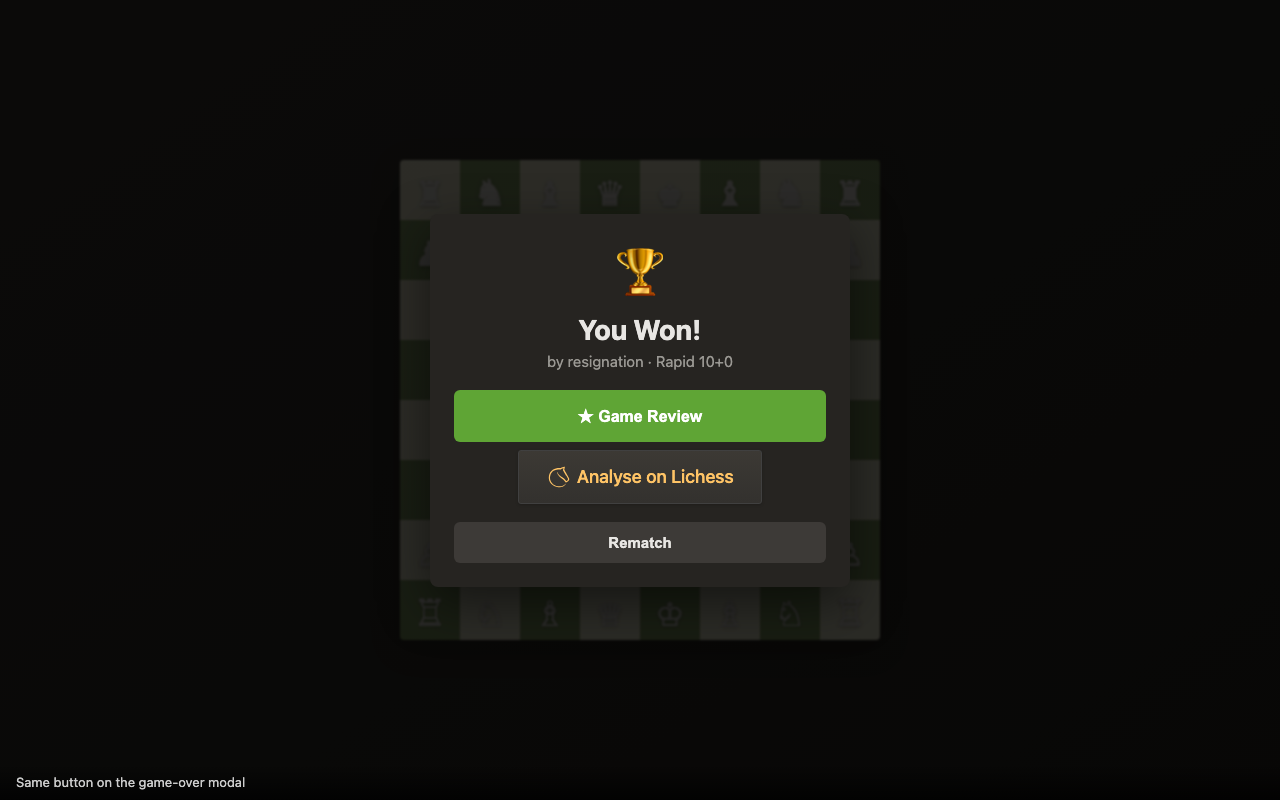
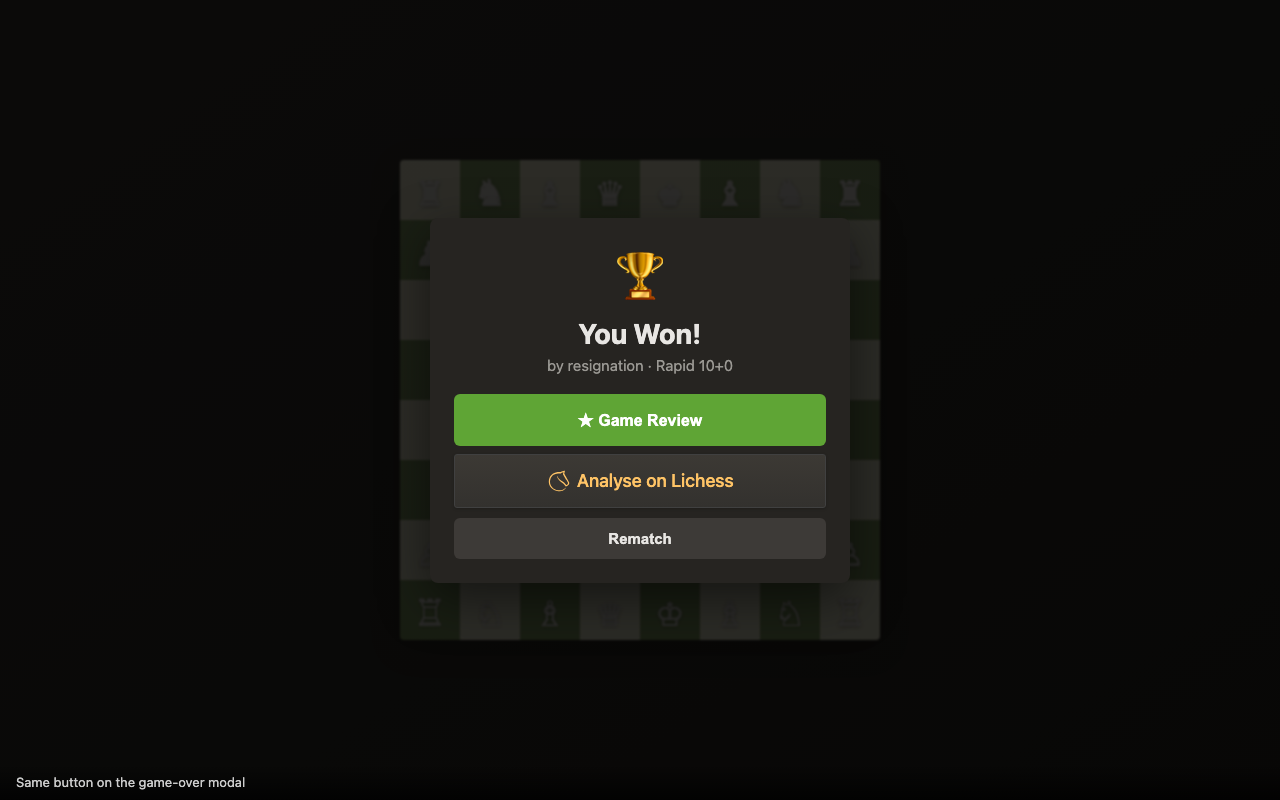
fix(chesscom-lichess-export): full-width modal Analyse button
Match game-over modal button width to Game Review; v1.0.1.

Changed region(s): [[0.3438, 0.4062, 0.6562, 0.625], [0.4688, 0.3125, 0.5312, 0.375], [0.4688, 0.6562, 0.5312, 0.6875]]

diff --git a/packages/chesscom-lichess-export/dist/chesscom-lichess-export.user.js b/packages/chesscom-lichess-export/dist/chesscom-lichess-export.user.js
@@ -1,7 +1,7 @@
 // ==UserScript==
 // @name         Chess.com → Lichess Export
 // @namespace    https://github.com/pedro-mass/userscripts/chesscom-lichess-export
-// @version      1.0.0
+// @version      1.0.1
 // @author       pedro-mass
 // @description  One-click PGN export from Chess.com to Lichess (game-over modal, sidebar, share dialog)
 // @license      GPL-3.0-only
@@ -361,10 +361,8 @@
     }
     [data-cy="game-over-modal-shell-buttons"] .cc2l-btn,
     .game-over-modal-shell-buttons .cc2l-btn {
-      width: auto;
       padding: 1.3rem 2rem;
-      max-width: 100%;
-      margin: 8px 1.6rem;
+      margin-top: 8px;
     }
     .cc2l-btn svg,
     .cc2l-share-btn svg {

diff --git a/packages/chesscom-lichess-export/store/screenshots.html b/packages/chesscom-lichess-export/store/screenshots.html
@@ -152,11 +152,10 @@
     .modal h2 { font-size: 28px; font-weight: 700; margin-bottom: 6px; }
     .modal p { color: #9a9893; margin-bottom: 20px; font-size: 15px; }
     .modal .cc2l-btn {
-      width: auto;
-      display: inline-flex;
-      padding: 14px 28px;
+      width: 100%;
+      padding: 14px 20px;
       font-size: 18px;
-      margin: 8px 0;
+      margin-top: 8px;
     }
     .modal .cc-btn-green { margin-top: 4px; }
 

diff --git a/packages/chesscom-lichess-export/dist/chesscom-lichess-export.meta.js b/packages/chesscom-lichess-export/dist/chesscom-lichess-export.meta.js
@@ -1,7 +1,7 @@
 // ==UserScript==
 // @name         Chess.com → Lichess Export
 // @namespace    https://github.com/pedro-mass/userscripts/chesscom-lichess-export
-// @version      1.0.0
+// @version      1.0.1
 // @author       pedro-mass
 // @description  One-click PGN export from Chess.com to Lichess (game-over modal, sidebar, share dialog)
 // @license      GPL-3.0-only

diff --git a/packages/chesscom-lichess-export/vite.config.ts b/packages/chesscom-lichess-export/vite.config.ts
@@ -10,7 +10,7 @@ export default defineConfig({
       entry: 'src/main.ts',
       userscript: {
         name: 'Chess.com → Lichess Export',
-        version: '1.0.0',
+        version: '1.0.1',
         author: 'pedro-mass',
         description:
           'One-click PGN export from Chess.com to Lichess (game-over modal, sidebar, share dialog)',

diff --git a/packages/chesscom-lichess-export/src/button.ts b/packages/chesscom-lichess-export/src/button.ts
@@ -128,10 +128,8 @@ function injectStyles(): void {
     }
     [data-cy="game-over-modal-shell-buttons"] .cc2l-btn,
     .game-over-modal-shell-buttons .cc2l-btn {
-      width: auto;
       padding: 1.3rem 2rem;
-      max-width: 100%;
-      margin: 8px 1.6rem;
+      margin-top: 8px;
     }
     .cc2l-btn svg,
     .cc2l-share-btn svg {
